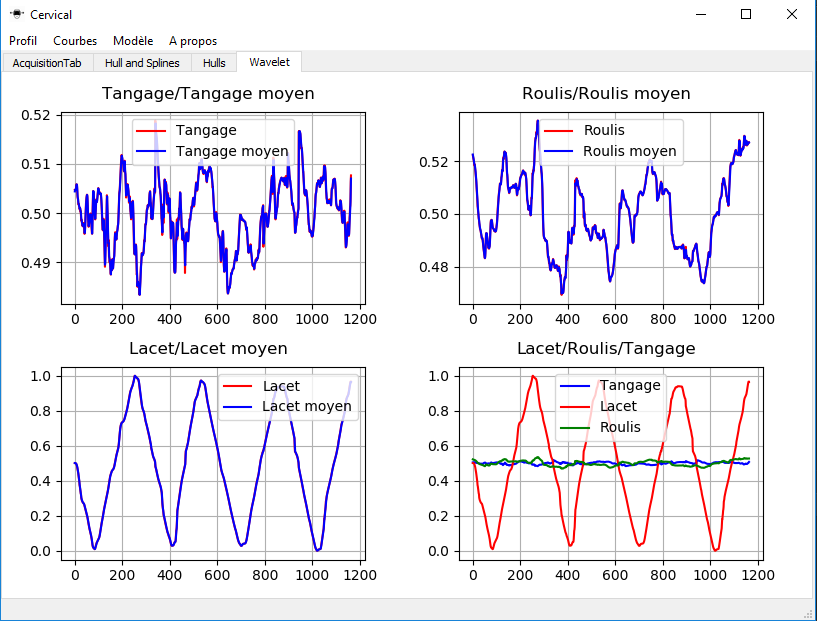
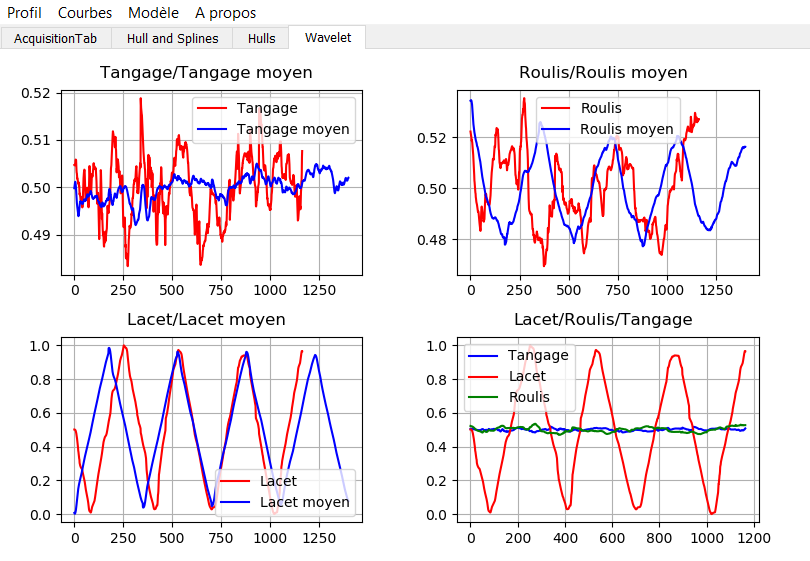
display when loaded

diff --git a/Cervical_GUI/controller/my_window_controller.py b/Cervical_GUI/controller/my_window_controller.py
@@ -252,6 +252,8 @@ class MyWindowController(QObject):
                     self.path_model_hulls = path_hulls
                     self.path_model_wavelet = path_wavelet
                     self.path_model_hull_and_spline = path_hull_and_spline
+                    acq_controller = self.view.tab_acquisition.acquisition_controller
+                    acq_controller.display_models(get_coord(acq_controller.TMP_FILE_PATH))
                 else:
                     # Do nothing
                     pass

diff --git a/Cervical_GUI/view/model_generator_dialog.py b/Cervical_GUI/view/model_generator_dialog.py
@@ -108,7 +108,7 @@ class ModelGeneratorDialog(QDialog):
 
         # BUTTON BOX
         self.buttonBox.setOrientation(QtCore.Qt.Horizontal)
-        self.buttonBox.addButton("Regénérer le modèle", QDialogButtonBox.AcceptRole)
+        self.buttonBox.addButton("Régénérer le modèle", QDialogButtonBox.AcceptRole)
         self.buttonBox.addButton(QtWidgets.QDialogButtonBox.Cancel)
 
         self.buttonBox.setObjectName("buttonBox")

diff --git a/Report/user_guide/README.md b/Report/user_guide/README.md
@@ -198,7 +198,7 @@ To create a model you need to use the "*Modèles*" menu and click on "*Créer mo
 
 ![Create a model](./images/screens/10_python_create_model_dialog.png)
 
-Here you can select all the patients you want to include in your new model by checking the corresponding boxes. You need to specify a name for your new model in the field "*Nom du modèle*". Eventually you can click on "*Regénérer le modèle*". This will create one model for each of the three kinds presented earlier. Each model will be stored in a file whose name is formatted as follows: *\<name specified\>\_\<type of the model\>.\<model extension\>*.
+Here you can select all the patients you want to include in your new model by checking the corresponding boxes. You need to specify a name for your new model in the field "*Nom du modèle*". Eventually you can click on "*Régénérer le modèle*". This will create one model for each of the three kinds presented earlier. Each model will be stored in a file whose name is formatted as follows: *\<name specified\>\_\<type of the model\>.\<model extension\>*.
 
 *\<type of the model\>* is either *hulls*, *hull\_and\_spline* or *time\_series*. The extensions are predefined.
 
